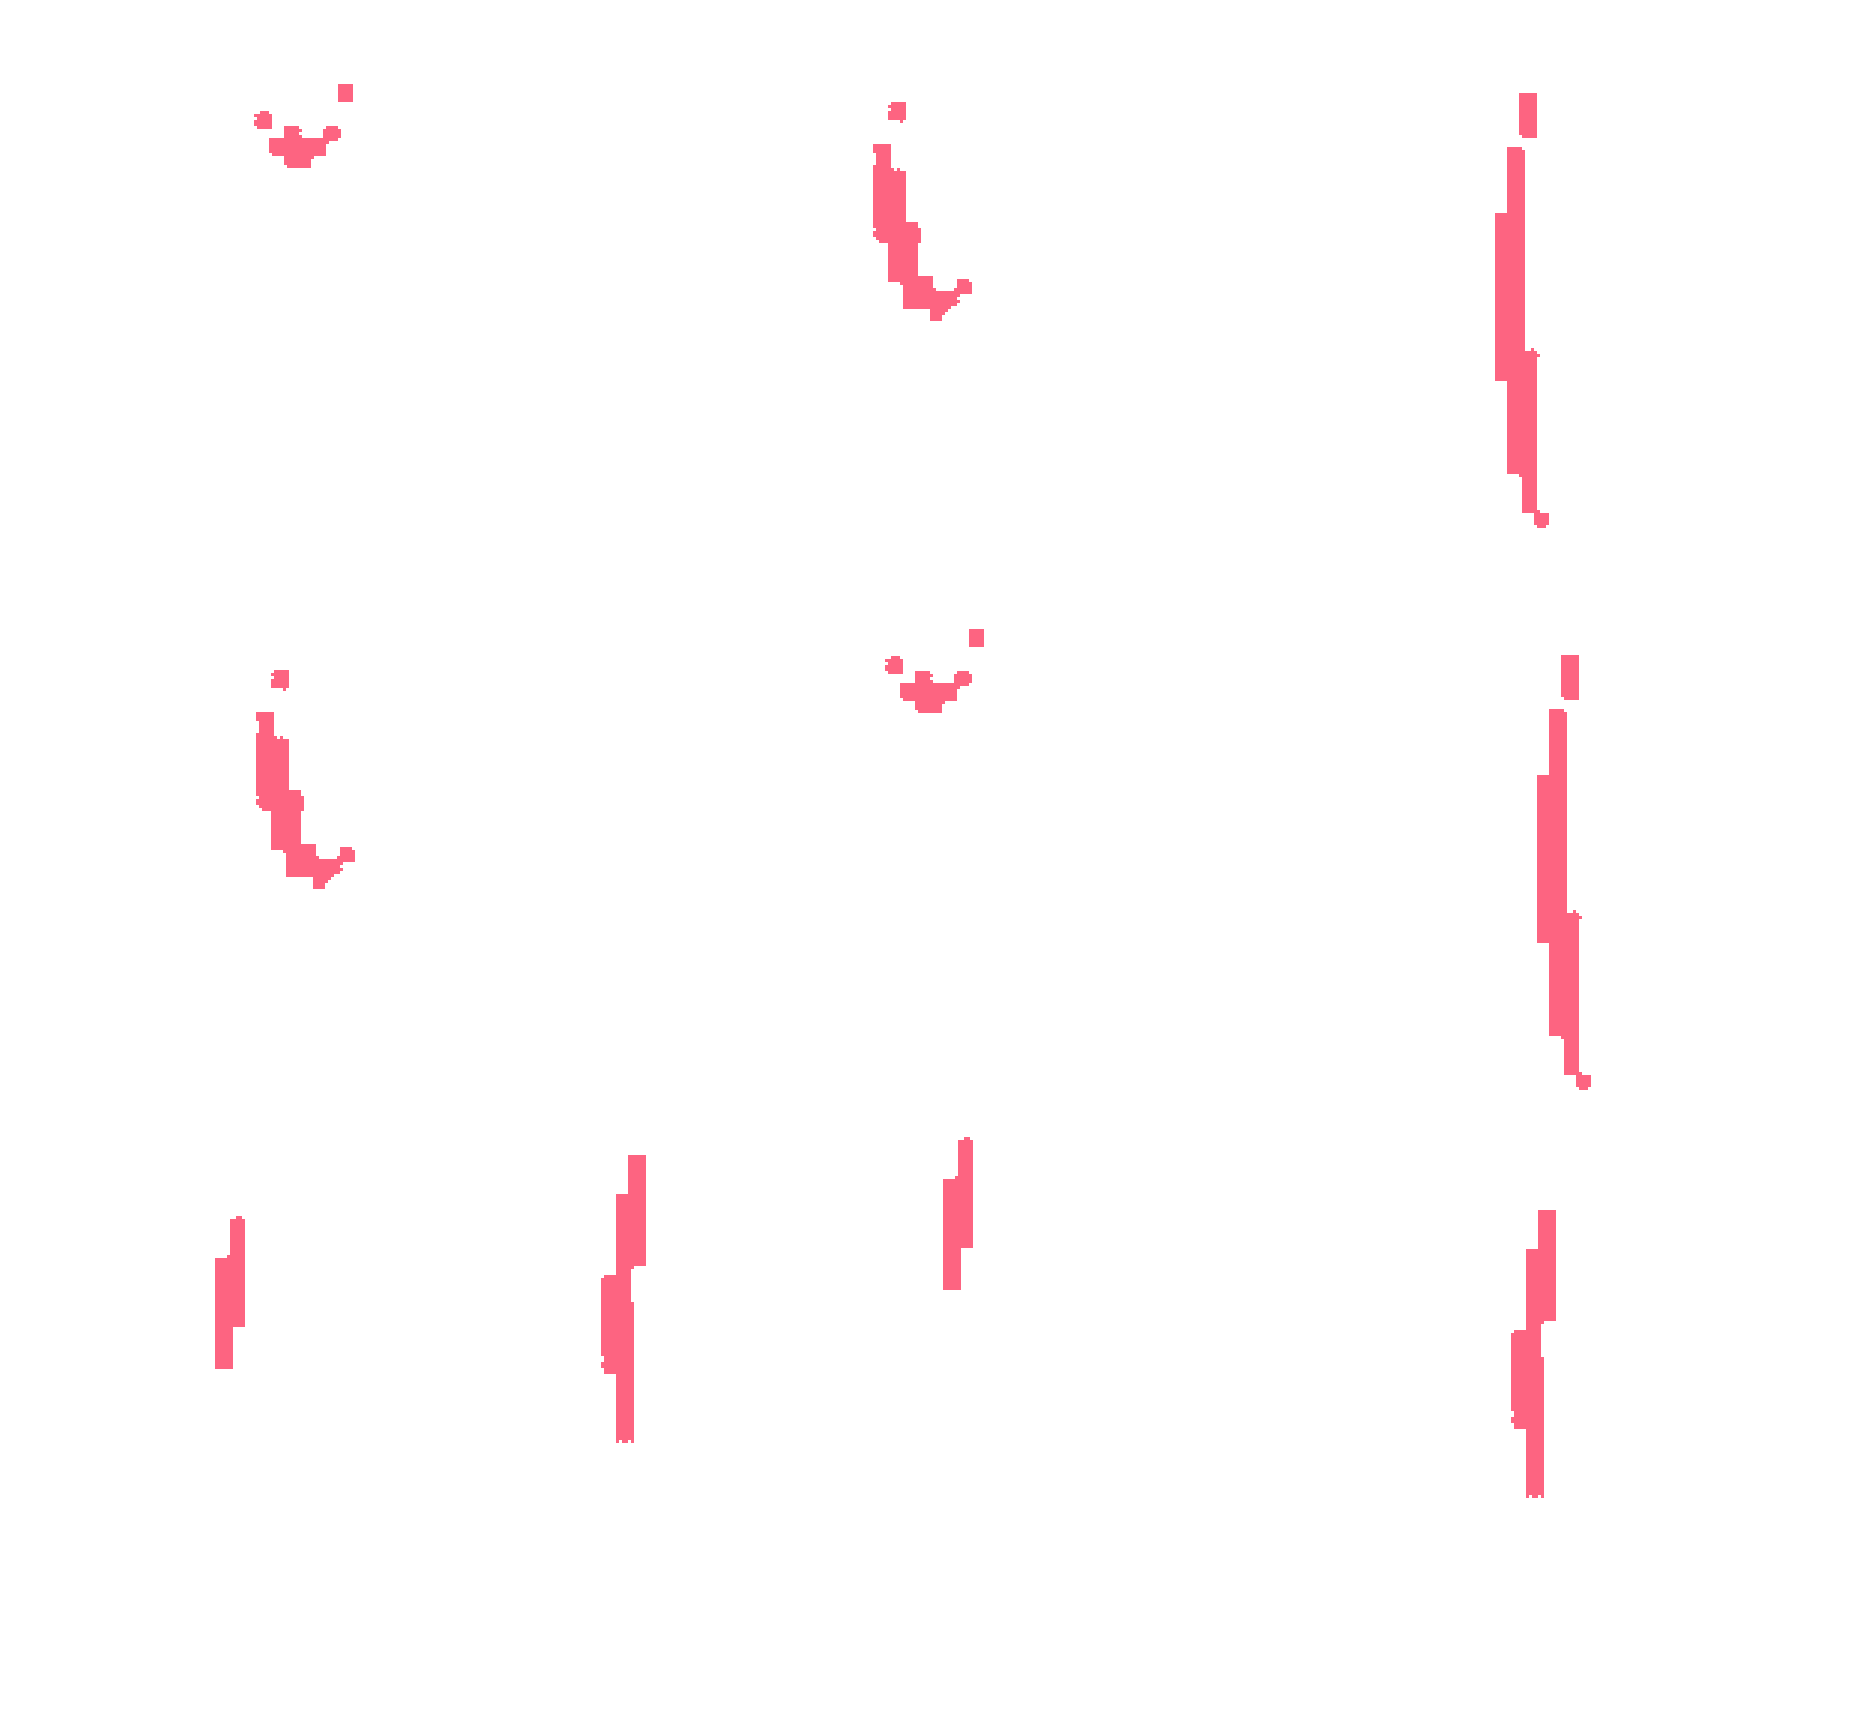
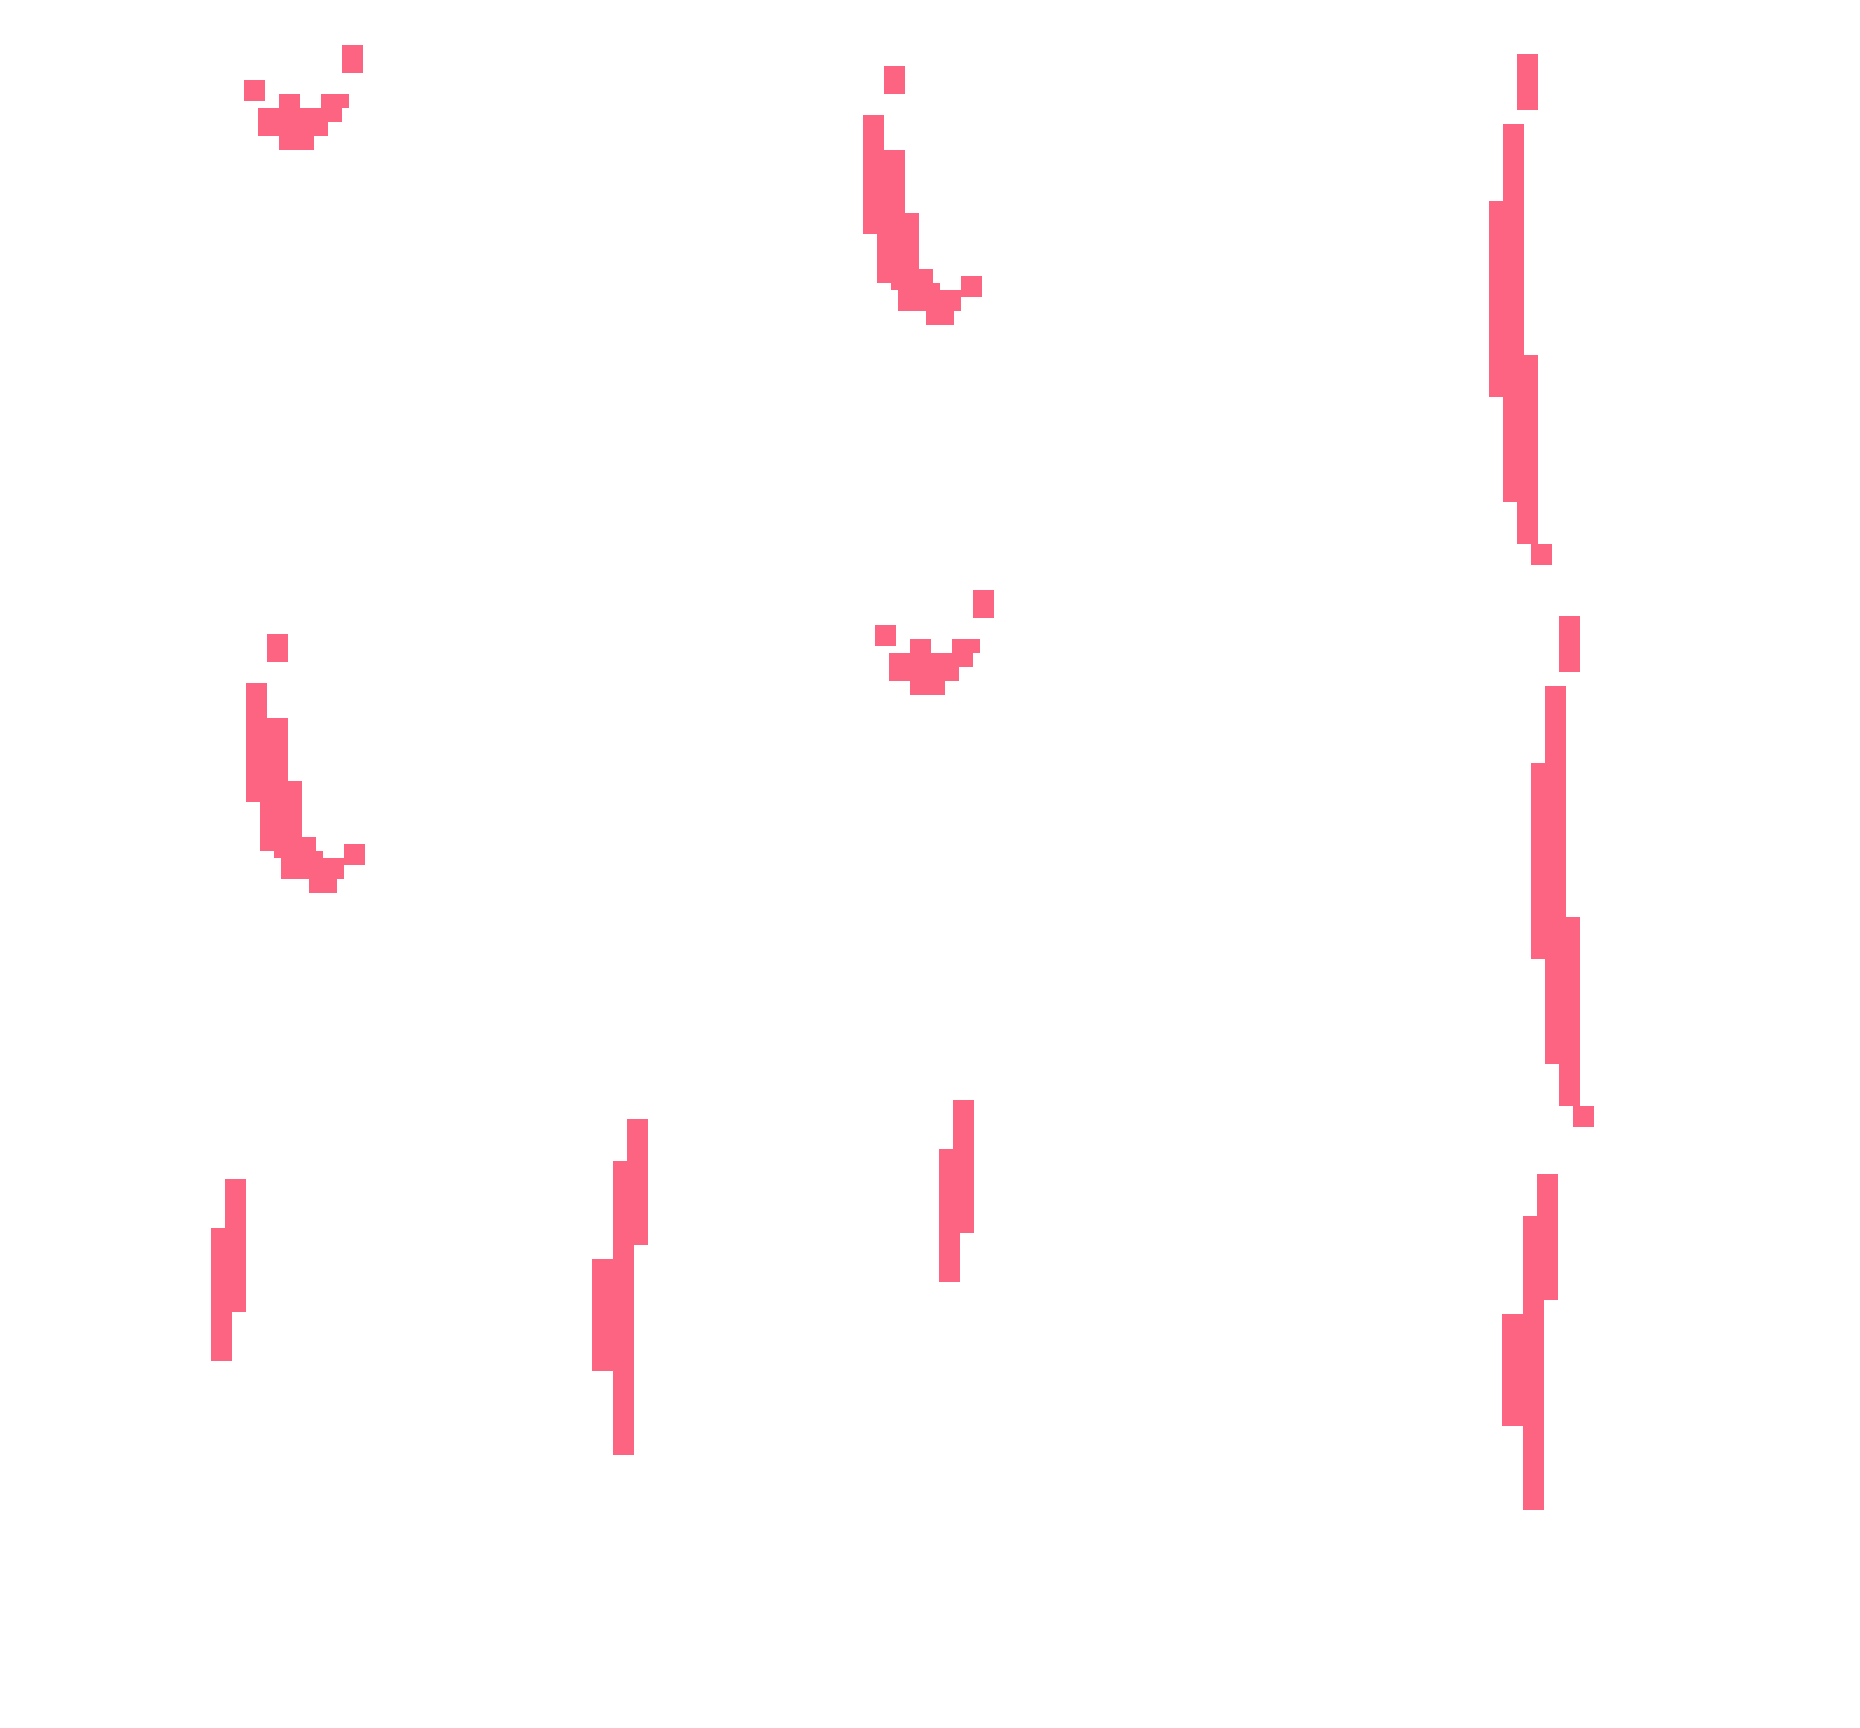
Redraw the slash frames by hand so the art is crisp
The traced silhouettes were faithful but not art: the screenshot is a resized
JPEG, so its edges carry a pixel of wobble that reads as fuzz once scaled up.
Redrew all five frames from the traces on a 17x74 grid, each as a stack of
solid rectangles, so every edge is a clean step and every run is deliberate --
keeping each stroke's silhouette, its steps and its gaps. Against the traces
the redraw scores 0.91 IoU, the difference being tapers squared off to the
grid.

Stamping now lands at 7 output pixels per art pixel instead of 3, so the blocks
read as pixel art rather than as a ragged smooth shape. Tests pin the per-frame
ink counts and check that no pixel stands alone in its row or column.

Claude-Session: https://claude.ai/code/session_01F6KpCQchDjXcyJobUKVZFa

diff --git a/tools/slash-sheet/slash.js b/tools/slash-sheet/slash.js
@@ -1,66 +1,86 @@
 /**
- * The slash animation, traced from the reference screenshot.
+ * The slash animation, drawn as pixel art.
  *
- * The screenshot is a filmstrip: five red strokes side by side, one per frame,
- * playing left to right. The stroke stabs in short, draws out longer over the
- * next two frames, curls into a hook, then breaks apart into specks.
+ * The reference screenshot is a filmstrip: five red strokes side by side, one
+ * per frame, playing left to right. The stroke stabs in short, draws out
+ * longer over the next two frames, curls into a hook, then breaks apart into
+ * specks.
  *
- * The art here is not a redrawing of that -- it is the screenshot's own
- * silhouettes. Each frame was cut out of the strip at full resolution and
- * stored verbatim as vertical runs `[column, topRow, bottomRow]` on a shared
- * WIDTH x HEIGHT grid, so what plays back is exactly what was drawn.
+ * Those strokes were traced out of the screenshot first, and this art was then
+ * redrawn from the traces by hand on a grid at half their resolution. The
+ * trace itself could not be used as art: the screenshot is a resized JPEG, so
+ * its edges carry a pixel of wobble that reads as fuzz rather than as pixel
+ * art. Redrawing squares that off -- every frame here is a stack of solid
+ * rectangles, so every edge is a clean step and every run is deliberate --
+ * while keeping each stroke's silhouette, its steps, and the gaps in it.
  *
  * Frames keep the top edge they had in the strip -- they all hang from the
  * same blade edge, and frames 4 and 5 start lower than the rest because that
  * is how they were drawn -- and are centred horizontally in the grid.
+ *
+ * Each frame is a list of rectangles `[topRow, bottomRow, leftCol, rightCol]`,
+ * inclusive on all four sides. They may overlap; the frame is their union.
  */
 
-/** Grid the frames were traced onto, one cell per screenshot pixel. */
-export const WIDTH = 33;
-export const HEIGHT = 148;
+/** Grid the frames are drawn on, in art pixels. */
+export const WIDTH = 17;
+export const HEIGHT = 74;
 
 /** The stroke's colour, sampled from the middle of the strokes themselves. */
 export const COLOR = { r: 0xfd, g: 0x64, b: 0x81, a: 0xff };
 
 /** The five frames of the animation, first to last. */
 const FRAMES = [
-  // Frame 1
+  // 1. The stab: a short stroke that swells in the middle and steps left as it
+  //    tapers off.
   [
-    [12, 14, 50], [13, 14, 50], [14, 14, 50], [15, 14, 50], [16, 13, 50], [17, 1, 50], [18, 1, 36],
-    [19, 0, 36], [20, 0, 36], [21, 1, 36],
+    [0, 6, 8, 10],
+    [7, 18, 6, 10],
+    [19, 25, 6, 8],
   ],
-  // Frame 2
+  // 2. Drawn out to twice the length, with the same swell and a wider step.
   [
-    [9, 43, 68], [9, 71, 72], [10, 42, 74], [11, 42, 74], [12, 42, 74], [13, 42, 74], [14, 15, 97],
-    [15, 15, 96], [16, 15, 97], [17, 15, 97], [18, 2, 96], [19, 2, 39], [19, 51, 97], [20, 2, 38],
-    [21, 2, 38], [22, 2, 38], [23, 2, 38],
+    [1, 6, 9, 11],
+    [7, 18, 7, 11],
+    [19, 20, 7, 9],
+    [21, 36, 4, 9],
+    [37, 48, 7, 9],
   ],
-  // Frame 3
+  // 3. Full length: the tip has torn away from the stroke, which drifts right
+  //    down its length and trails off in two steps.
   [
-    [8, 43, 98], [9, 43, 98], [10, 43, 98], [11, 43, 98], [12, 21, 129], [13, 21, 129],
-    [14, 21, 129], [15, 21, 129], [16, 3, 16], [16, 21, 130], [17, 3, 17], [17, 22, 142],
-    [18, 3, 17], [18, 89, 142], [19, 3, 17], [19, 89, 142], [20, 3, 17], [20, 88, 142],
-    [21, 3, 17], [21, 89, 146], [22, 90, 90], [22, 142, 147], [23, 143, 147], [24, 143, 147],
-    [25, 143, 146],
+    [1, 8, 8, 10],
+    [11, 21, 6, 8],
+    [22, 43, 4, 8],
+    [44, 49, 4, 10],
+    [50, 64, 6, 10],
+    [65, 70, 8, 10],
+    [71, 73, 10, 12],
   ],
-  // Frame 4
+  // 4. The curl: the stroke thickens, bends right into a hook, and meets a
+  //    piece that has broken off ahead of it.
   [
-    [0, 23, 25], [0, 30, 50], [0, 52, 53], [1, 23, 54], [2, 23, 55], [3, 23, 55], [4, 23, 55],
-    [5, 10, 10], [5, 12, 14], [5, 23, 68], [6, 9, 14], [6, 31, 68], [7, 9, 14], [7, 32, 68],
-    [8, 9, 14], [8, 31, 68], [9, 9, 15], [9, 32, 69], [10, 9, 14], [10, 32, 77], [11, 49, 77],
-    [12, 49, 77], [13, 49, 77], [14, 49, 77], [15, 51, 55], [15, 67, 77], [16, 67, 77],
-    [17, 67, 77], [18, 67, 77], [19, 67, 81], [20, 71, 81], [21, 72, 81], [22, 72, 81],
-    [23, 72, 79], [24, 72, 78], [25, 72, 77], [26, 72, 76], [27, 71, 76], [28, 68, 73],
-    [28, 75, 75], [29, 68, 72], [30, 68, 72], [31, 68, 72], [32, 69, 72],
+    [4, 7, 3, 5],
+    [11, 15, 0, 2],
+    [16, 24, 0, 5],
+    [25, 27, 0, 7],
+    [28, 32, 2, 7],
+    [33, 34, 2, 9],
+    [35, 35, 4, 10],
+    [34, 35, 14, 16],
+    [36, 36, 5, 16],
+    [37, 38, 5, 13],
+    [39, 40, 9, 12],
   ],
-  // Frame 5
+  // 5. Broken up: specks either side of what is left of the curl.
   [
-    [0, 13, 13], [0, 15, 16], [1, 13, 17], [2, 12, 17], [3, 12, 17], [4, 12, 17], [5, 13, 17],
-    [5, 21, 25], [6, 21, 26], [7, 21, 26], [8, 21, 26], [9, 21, 26], [10, 17, 29], [11, 17, 30],
-    [12, 17, 30], [13, 17, 30], [14, 17, 30], [15, 18, 18], [15, 20, 30], [16, 21, 30],
-    [17, 21, 30], [18, 21, 30], [19, 21, 27], [20, 21, 26], [21, 21, 26], [22, 21, 26],
-    [23, 18, 26], [24, 17, 22], [25, 17, 21], [26, 17, 21], [27, 17, 21], [28, 3, 8], [28, 18, 20],
-    [29, 3, 8], [30, 3, 8], [31, 3, 8], [32, 3, 8],
+    [1, 4, 14, 16],
+    [6, 8, 0, 2],
+    [8, 9, 5, 7],
+    [8, 9, 11, 14],
+    [10, 11, 2, 13],
+    [12, 13, 2, 11],
+    [14, 15, 5, 9],
   ],
 ];
 
@@ -70,12 +90,12 @@ export const FRAME_COUNT = FRAMES.length;
 /** Rasterise frame `index` to a WIDTH x HEIGHT mask of 0/1 bytes. */
 export function frameMask(index) {
   const mask = new Uint8Array(WIDTH * HEIGHT);
-  for (const [col, top, bottom] of FRAMES[index]) {
+  for (const [top, bottom, left, right] of FRAMES[index]) {
+    if (top < 0 || left < 0 || bottom >= HEIGHT || right >= WIDTH || top > bottom || left > right) {
+      throw new Error(`slash frame ${index + 1} has a bad rectangle ${[top, bottom, left, right]}`);
+    }
     for (let row = top; row <= bottom; row++) {
-      if (col < 0 || col >= WIDTH || row < 0 || row >= HEIGHT) {
-        throw new Error(`slash frame ${index + 1} draws outside the ${WIDTH}x${HEIGHT} grid at ${col},${row}`);
-      }
-      mask[row * WIDTH + col] = 1;
+      for (let col = left; col <= right; col++) mask[row * WIDTH + col] = 1;
     }
   }
   return mask;

diff --git a/test/slashSheet.test.js b/test/slashSheet.test.js
@@ -53,12 +53,26 @@ test('every slash frame stays inside the art grid and none is empty', () => {
   }
 });
 
-test('the traced frames still hold the ink they were cut from the screenshot with', () => {
-  // The strip's five strokes, in the order they play. Guards the run data
+test('the drawn frames hold the ink they were drawn with', () => {
+  // The strip's five strokes, in the order they play. Guards the rectangles
   // against an edit that silently drops or duplicates part of a frame.
   const ink = frameMasks().map((mask) => mask.reduce((total, on) => total + on, 0));
-  assert.deepEqual(ink, [382, 819, 1222, 704, 259]);
-  assert.equal(ink.reduce((a, b) => a + b, 0), 3386);
+  assert.deepEqual(ink, [102, 216, 311, 202, 89]);
+});
+
+test('every frame is drawn as clean rectangles, with no stray single pixels', () => {
+  // Pixel art, not a trace: every run is at least two wide and two tall, so no
+  // edge can carry the single-pixel wobble the screenshot's JPEG edges had.
+  frameMasks().forEach((mask, frame) => {
+    const on = (x, y) => (x < 0 || y < 0 || x >= WIDTH || y >= HEIGHT ? 0 : mask[y * WIDTH + x]);
+    for (let y = 0; y < HEIGHT; y++) {
+      for (let x = 0; x < WIDTH; x++) {
+        if (!on(x, y)) continue;
+        assert.ok(on(x - 1, y) || on(x + 1, y), `frame ${frame + 1}: lone pixel column at ${x},${y}`);
+        assert.ok(on(x, y - 1) || on(x, y + 1), `frame ${frame + 1}: lone pixel row at ${x},${y}`);
+      }
+    }
+  });
 });
 
 test('frames spread over a sheet without ever going backwards', () => {

diff --git a/tools/slash-sheet/README.md b/tools/slash-sheet/README.md
@@ -18,13 +18,20 @@ The reference screenshot is a filmstrip: five red strokes side by side, one per
 frame, playing left to right. The stroke stabs in short, draws out longer over
 the next two frames, curls into a hook, then breaks apart into specks.
 
-`slash.js` is not a redrawing of that — it holds the screenshot's own
-silhouettes. Each frame was cut out of the strip at full resolution and stored
-verbatim as vertical runs on a shared 33x148 grid, in the colour sampled from
-the strokes themselves (`#fd6481`). Rasterising the runs and laying them back
-over the screenshot agrees pixel for pixel: 3386 ink pixels in, 3386 out, no
-pixel in one and not the other. `npm test` pins the per-frame counts so an edit
-to the run data cannot silently drop or duplicate part of a frame.
+Those strokes were traced out of the screenshot first, and `slash.js` was then
+redrawn from the traces by hand on a grid at half their resolution, 17x74. The
+trace itself could not be used as art: the screenshot is a resized JPEG, so its
+edges carry a pixel of wobble that reads as fuzz rather than as pixel art.
+Redrawing squares that off — every frame is a stack of solid rectangles, so
+every edge is a clean step and every run is deliberate — while keeping each
+stroke's silhouette, its steps, and the gaps in it. Against the trace the
+redraw scores 0.91 IoU, the difference being tapers squared off to the grid.
+
+`npm test` pins the per-frame ink counts, so an edit to the rectangles cannot
+silently drop or duplicate part of a frame, and checks that no pixel stands
+alone in its row or column — the property that makes the art crisp.
+
+Colour is `#fd6481`, sampled from the middle of the strokes.
 
 To look at the frames on their own:
 
